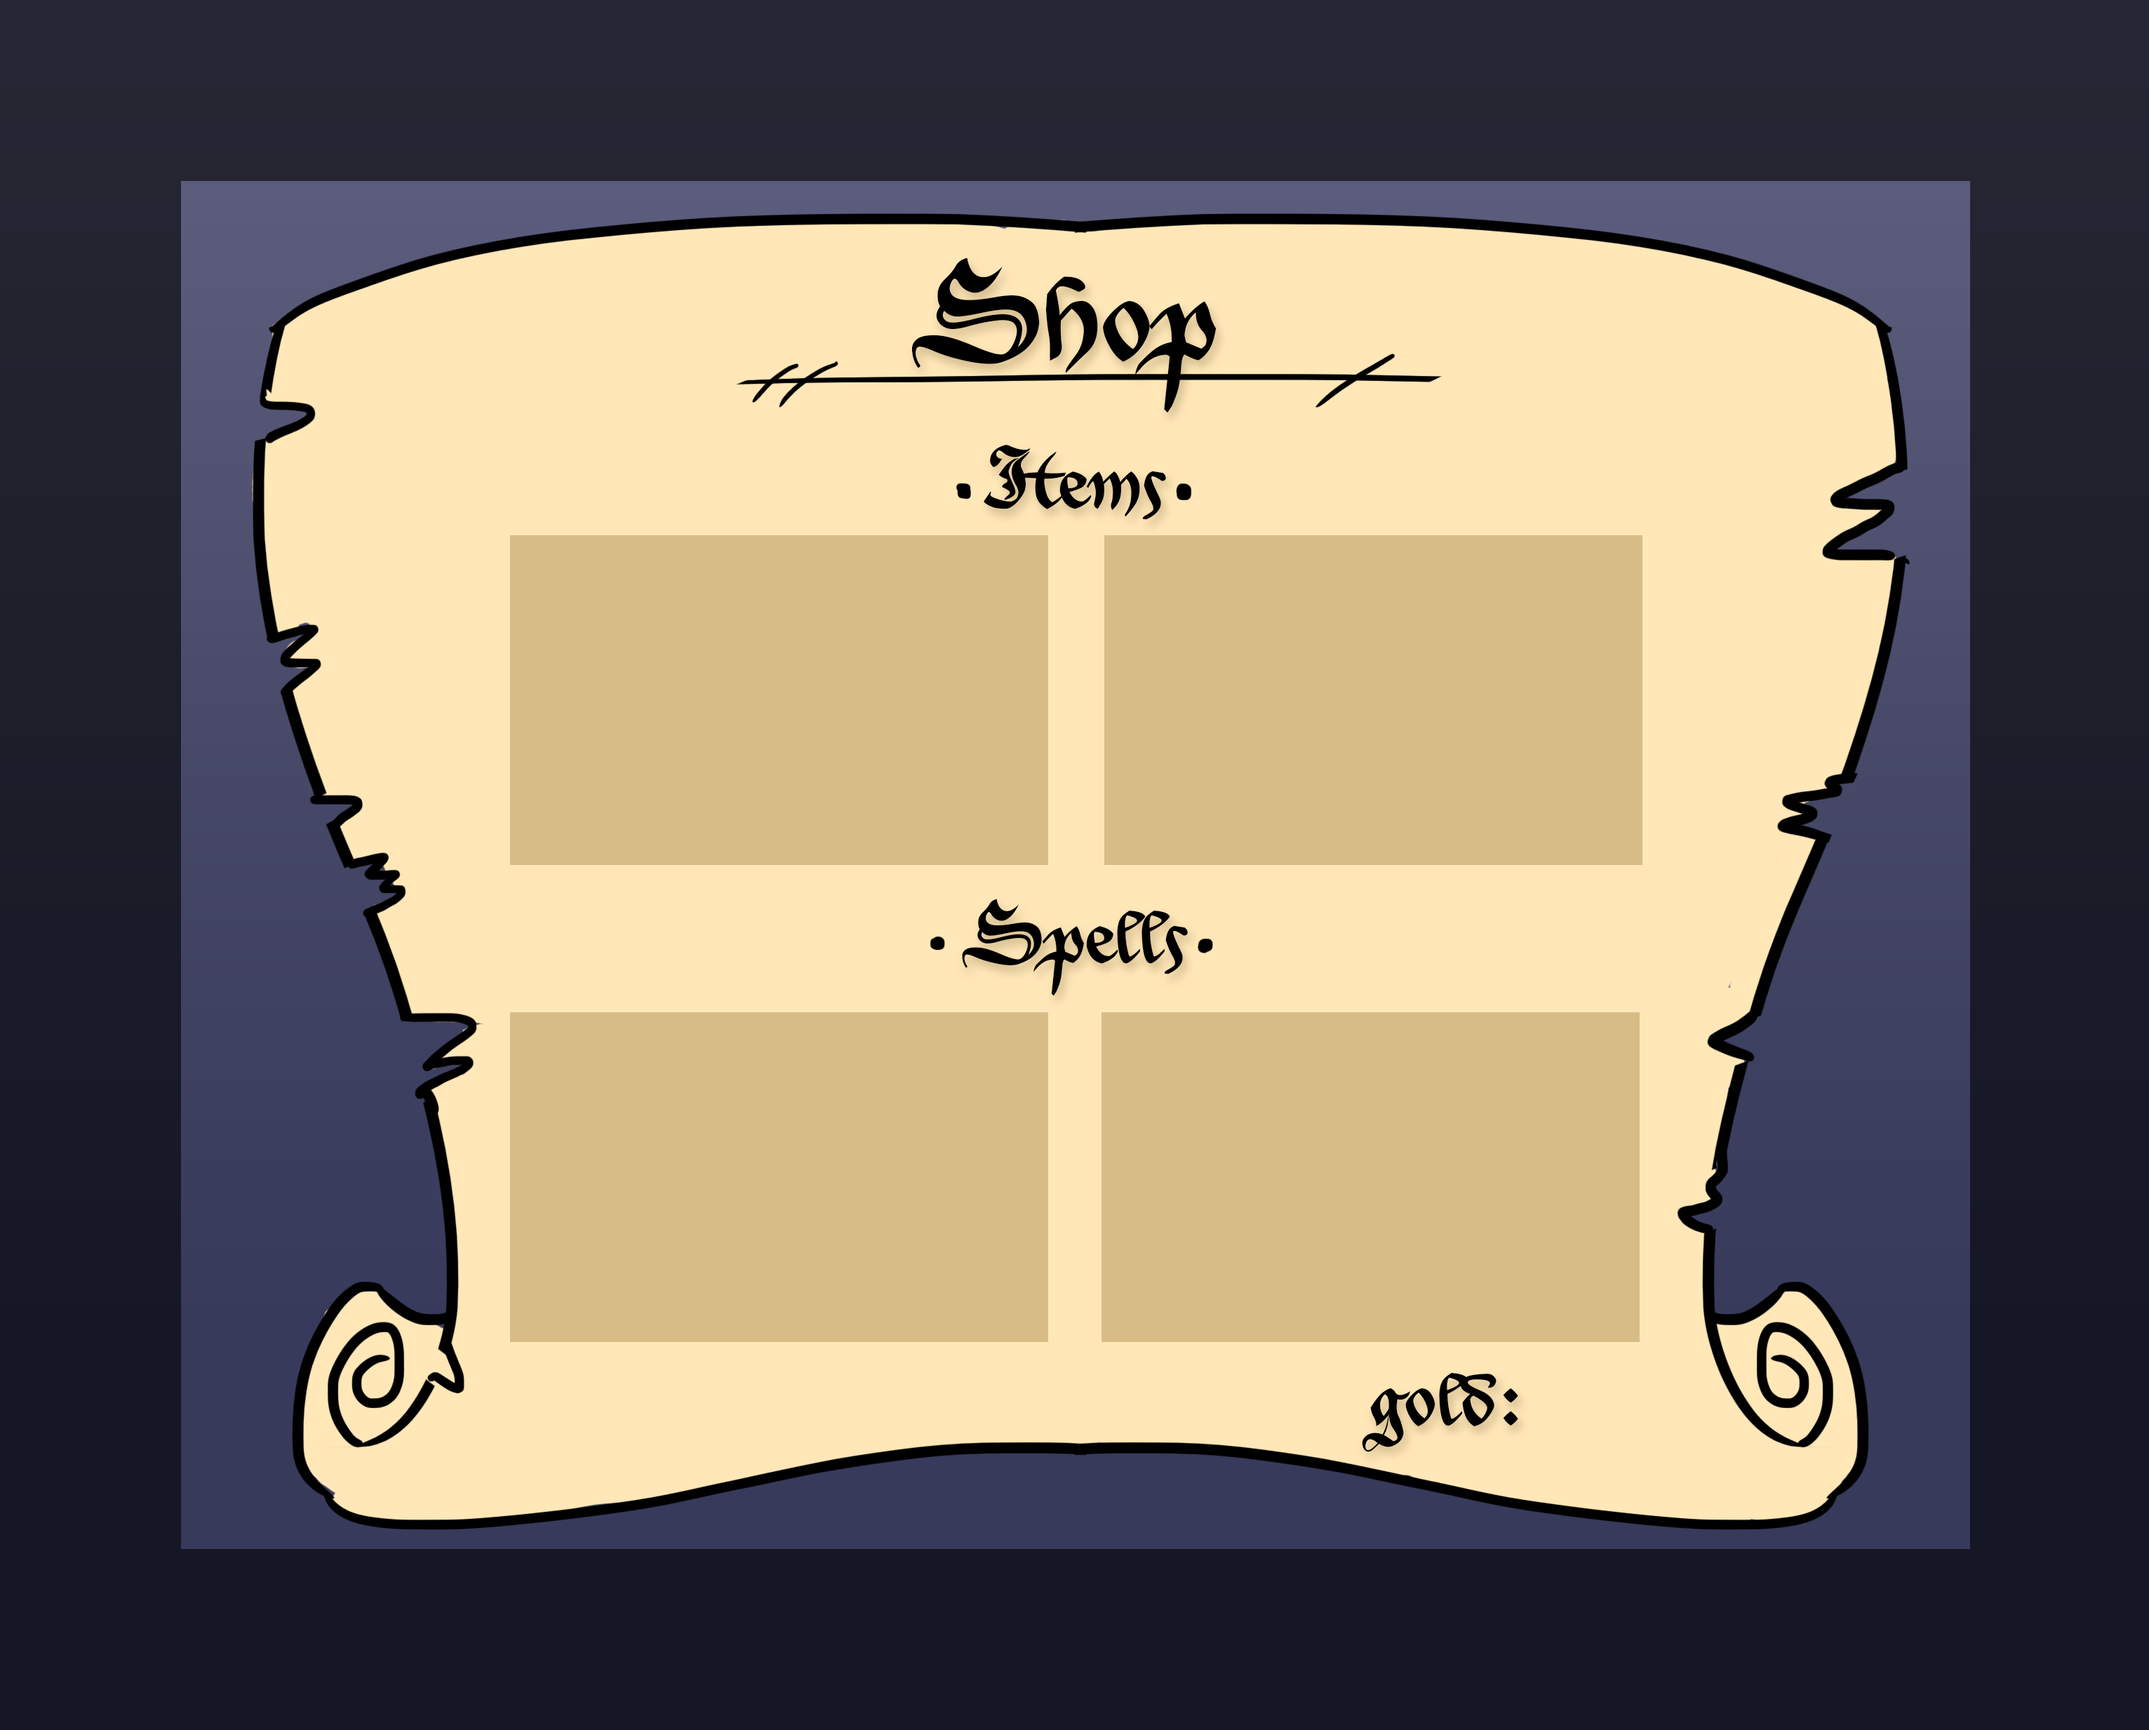
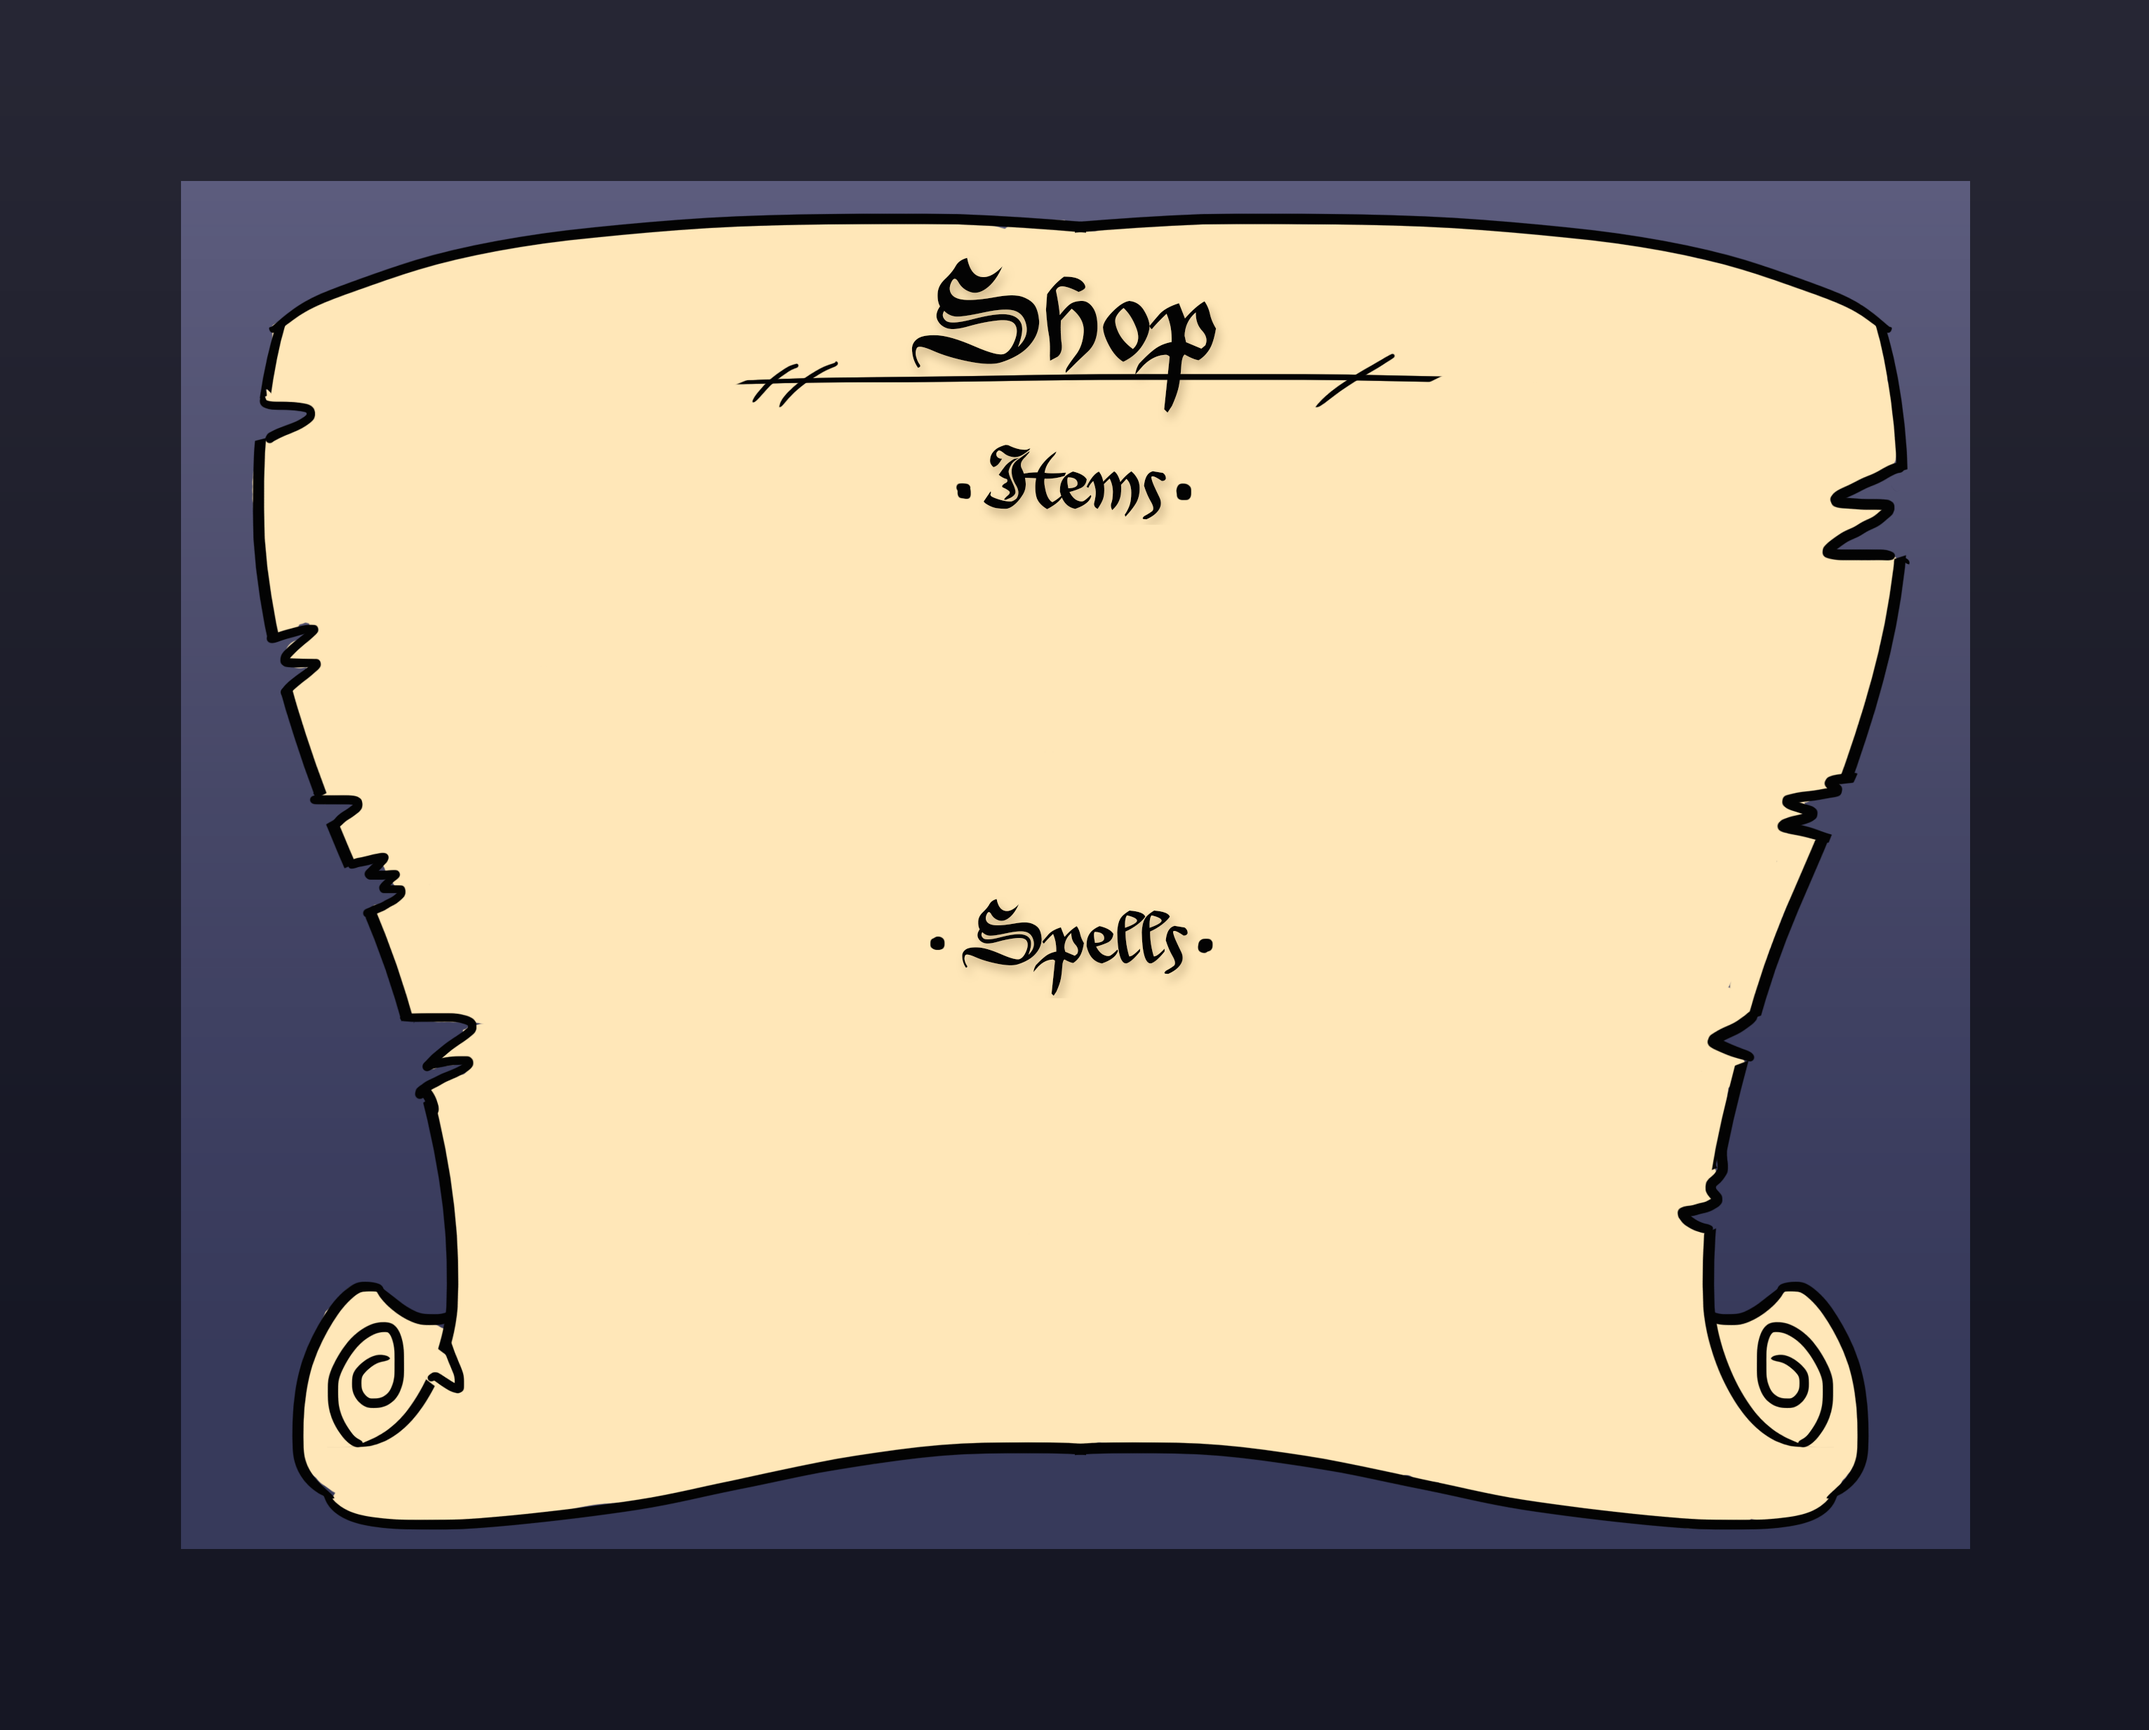
Merge branch 'Matt-Branch-4'
Changed look of shopScreen and handScreen
Fixed problem with dice texture not matching value
Changed getCost method to reflect purchase method in ItemCard
Updated canPurchase method in ItemCard to remove gold from player while
in the shop
Added table in ShopScreen to show how much gold player has

Changed region(s): [[0.2171, 0.562, 0.7754, 0.8431], [0.2171, 0.3122, 0.7754, 0.4996]]

diff --git a/core/src/Screens/ShopScreen.java b/core/src/Screens/ShopScreen.java
@@ -6,6 +6,7 @@ import java.util.ArrayList;
 import java.util.List;
 
 import Screens.HandScreen.Back;
+import regularClases.HumanCharacter;
 
 import com.badlogic.gdx.Gdx;
 import com.badlogic.gdx.Screen;
@@ -22,7 +23,9 @@ import com.badlogic.gdx.scenes.scene2d.Group;
 import com.badlogic.gdx.scenes.scene2d.InputEvent;
 import com.badlogic.gdx.scenes.scene2d.InputListener;
 import com.badlogic.gdx.scenes.scene2d.Stage;
+import com.badlogic.gdx.scenes.scene2d.ui.Image;
 import com.badlogic.gdx.scenes.scene2d.ui.ImageButton;
+import com.badlogic.gdx.scenes.scene2d.ui.Label;
 import com.badlogic.gdx.scenes.scene2d.ui.Skin;
 import com.badlogic.gdx.scenes.scene2d.ui.Table;
 import com.badlogic.gdx.scenes.scene2d.ui.ImageButton.ImageButtonStyle;
@@ -41,6 +44,7 @@ public class ShopScreen implements Screen, GestureListener, ActionListener{
 	private Back background;
 	
 	private Table buttonTable;
+	private Table goldTable;
 	
 	public static Skin skin = new Skin();
 	public static TextureAtlas atlas = new TextureAtlas("buttons/button.pack");
@@ -60,6 +64,7 @@ public class ShopScreen implements Screen, GestureListener, ActionListener{
 		background = new Back();
 		
 		buttonTable = new Table();
+		goldTable = new Table();
 		
 		skin.addRegions(atlas);
 		
@@ -85,18 +90,35 @@ public class ShopScreen implements Screen, GestureListener, ActionListener{
 	
 	
 	public class Back extends Actor{
-		public Texture texture = new Texture("shop_screen1.png");
+		public Texture texture = new Texture("shop_screen3.png");
 		public void draw(Batch batch, float parentAlpha){
 			batch.draw(texture, 0, 0,screenWidth,screenHeight);
 		}
 	}
 	
+	private void refresh(){
+		goldTable.remove();
+		
+		HumanCharacter active = SevenDungeons.getPlayer();
+		Integer gold = active.getGold();
+		Image goldImage = new Image(SevenDungeons.goldRegion);
+		float imageSize = 20;
+		
+		goldTable = new Table();
+		goldTable.add(goldImage).size(imageSize, imageSize).expand();
+		goldTable.add(new Label(gold.toString(), SevenDungeons.labelStyle)).expand();
+		goldTable.setSize(imageSize*2, imageSize);
+		goldTable.setPosition(screenWidth - 200, 100);
+		
+		stage.addActor(goldTable);
+	}
+	
 	public void exitShop(){
 		while (activeCards.size() > 0){
-			ItemCard current = activeCards.get(0);
-			current.purchase(SevenDungeons.getPlayer());
-			if (current.isSpell)
-				SevenDungeons.getPlayer().giveCard(current);
+			ItemCard curCard = activeCards.get(0);
+			HumanCharacter curPlayer = SevenDungeons.getPlayer();
+			if (curCard.isSpell)
+				curPlayer.giveCard(curCard);
 			activeCards.remove(0);
 			
 		}
@@ -113,6 +135,7 @@ public class ShopScreen implements Screen, GestureListener, ActionListener{
 						inventory.get(i).purchased = true;
 						cardGroup.setVisible(false);
 						activeCards.add(inventory.get(i));
+						refresh();
 					}
 					break;
 				}
@@ -148,6 +171,7 @@ public class ShopScreen implements Screen, GestureListener, ActionListener{
 	public void show() {
 		// TODO Auto-generated method stub
 		buttonTable = new Table();
+		buttonTable.setPosition(screenWidth/2, screenHeight/2 - 20);
 		
 		for(int i = 0; i < 6; i++) {
 			Card curCard = inventory.get(i);
@@ -156,19 +180,17 @@ public class ShopScreen implements Screen, GestureListener, ActionListener{
 			buttonTable.add().size(10);
 			if (i == 2){
 				buttonTable.row().height(10);
+				buttonTable.add().size(60);
+				buttonTable.row().height(10);
 			}
 		}
 				
 		stage.addActor(background);
 		stage.addActor(buttonTable);
-		
-		
-		buttonTable.setPosition(screenWidth/2, screenHeight/2);
-		
-		
 		stage.addActor(exitButton);
 		exitButton.setSize(50, 50);
 		exitButton.setPosition(100, screenHeight - exitButton.getHeight() - 100);
+		refresh();
 		
 		stage.draw();
 		

diff --git a/core/src/com/mygdx/game/ItemCard.java b/core/src/com/mygdx/game/ItemCard.java
@@ -43,7 +43,7 @@ public class ItemCard extends Card {
 		//Group group = new Group();
 		//group.addActor(this.button);
 		
-		infoTable = createInfoTable();
+		infoTable = createInfoTable(SevenDungeons.getPlayer());
 		if (isSpell)
 			infoTable.setBackground(Card.skin.getDrawable("spell_card"));
 		else
@@ -72,7 +72,7 @@ public class ItemCard extends Card {
 		return group;
 	}
 	
-	private Table createInfoTable() {
+	private Table createInfoTable(HumanCharacter active) {
 		Table table = new Table();
 		Image statImage;
 		Image goldImage = new Image(SevenDungeons.goldRegion);
@@ -99,7 +99,7 @@ public class ItemCard extends Card {
 		innerTable.add(statImage).align(Align.center).size(height/2, height/2).expand();
 		innerTable.add(new Label(String.valueOf(magnitude), SevenDungeons.labelStyle));
 		innerTable.add(goldImage).align(Align.center).size(height/2, height/2).expand();
-		innerTable.add(new Label(String.valueOf(price), SevenDungeons.labelStyle));
+		innerTable.add(new Label(String.valueOf(getCost(active)), SevenDungeons.labelStyle));
 		innerTable.setSize(width, height/2);
 		innerTable.debug();
 		
@@ -129,10 +129,11 @@ public class ItemCard extends Card {
 	public boolean canPurchase(HumanCharacter active) {
 		
 		// change this
-		boolean enoughGold = true;
+		boolean enoughGold = (active.getGold() >= getCost(active) && active.hand.size() < 3);
 		
 		if(enoughGold) {
 			//if player has enough gold and room inventory purchase and return true
+			active.giveGold(-1 * purchase(active));
 			return true;
 		}
 		//else dont purchase and return false
@@ -142,7 +143,7 @@ public class ItemCard extends Card {
 	
 	public int getCost(HumanCharacter active){
 		
-		return price * (active.Purchased(type) + 1);
+		return (int) (price * (active.Purchased(type) * 1.5 + 1));
 	}
 	
 	public int getMagnitude(HumanCharacter active){

diff --git a/core/src/Screens/HandScreen.java b/core/src/Screens/HandScreen.java
@@ -73,20 +73,10 @@ public class HandScreen implements Screen, GestureListener, ActionListener{
 	
 	public void setPlayer(HumanCharacter player) {
 		this.player = player;
-		//debugHand();
-	}
-	
-	private void debugHand(){
-		for (int i = 1; i <= 3; i++) {
-			ItemCard card = new ItemCard(i,i*5);
-			card.create();
-			player.giveCard(card);
-		}
-	}
-	
+	}	
 
 	public class Back extends Actor{
-		public Texture texture = new Texture("shop_screen2.png");
+		public Texture texture = new Texture("background_table.png");
 		public void draw(Batch batch, float parentAlpha){
 			batch.draw(texture, 0, 0,screenWidth,screenHeight);
 		}
@@ -98,7 +88,6 @@ public class HandScreen implements Screen, GestureListener, ActionListener{
 		
 		
 		stage.draw();
-		Table.drawDebug(stage);
 	}
 
 	@Override
@@ -120,6 +109,9 @@ public class HandScreen implements Screen, GestureListener, ActionListener{
 			Card curCard = player.hand.get(i);
 			curCard.getGroup().setVisible(true);
 			buttonTable.add(curCard.getGroup()).size(curCard.width, curCard.height);
+			buttonTable.row();
+			buttonTable.add().size(15);
+			buttonTable.row();
 		}
 		
 		stage.addActor(background);

diff --git a/core/src/Screens/BattleScreen.java b/core/src/Screens/BattleScreen.java
@@ -176,14 +176,14 @@ public class BattleScreen implements Screen {
 
 	public void refresh(){
 		
-		stage.getActors().removeValue(battleTable, true);
-		stage.getActors().removeValue(dice, true);
-		stage.getActors().removeValue(battleLabel, true);
+		battleTable.remove();
+		dice.remove();
+		battleLabel.remove();
 		
-		battleLabel = new Label(battleStatus, SevenDungeons.labelStyle);
+		battleLabel.setText(battleStatus);
+
 		battleLabel.setPosition(stage.getWidth()/2 - 100, stage.getHeight()/2 - 30);
 		
-		dice = new Dice(40,40);
 		dice.setPosition(stage.getWidth()/2, stage.getHeight()/2);
 		dice.setSize(40, 40);
 		
@@ -227,6 +227,7 @@ public class BattleScreen implements Screen {
 		// TODO Auto-generated method stub
 		
 		battleLabel = new Label(battleStatus, SevenDungeons.labelStyle);
+		dice = new Dice(40,40);
 		refresh();
 
 		

diff --git a/core/src/com/mygdx/game/Dice.java b/core/src/com/mygdx/game/Dice.java
@@ -30,8 +30,8 @@ public class Dice extends Actor implements ActionListener {
 		texture = new Texture("die.png");
 		regions = new TextureRegion[6];
 		regions[0] = new TextureRegion(texture,138,138,138,138);
-		regions[1] = new TextureRegion(texture,138,414,138,138);
-		regions[2] = new TextureRegion(texture,276,414,138,138);
+		regions[1] = new TextureRegion(texture,276,414,138,138);
+		regions[2] = new TextureRegion(texture,138,276,138,138);
 		regions[3] = new TextureRegion(texture,138,0,138,138);
 		regions[4] = new TextureRegion(texture,0,414,138,138);
 		regions[5] = new TextureRegion(texture,138,414,138,138);

diff --git a/core/src/com/mygdx/game/SevenDungeons.java b/core/src/com/mygdx/game/SevenDungeons.java
@@ -165,8 +165,15 @@ public  class SevenDungeons extends Game{
 	public static void openShop(){
 		ArrayList<ItemCard> cards = new ArrayList<ItemCard>(6);
 		for (int i = 0; i < 6; i++){
+			int price = 0;
+			if (i>2){
+				price = 30;
+			} else {
+				price = 10;
+			}
 			
-			ItemCard curCard = new ItemCard((i%3)+1,(i+1)*5);
+			ItemCard curCard = new ItemCard((i%3)+1, price);
+			
 			curCard.create();
 			if (i>2){
 				curCard.isSpell = true;

diff --git a/core/src/com/mygdx/game/Card.java b/core/src/com/mygdx/game/Card.java
@@ -25,8 +25,8 @@ public abstract class Card extends Actor{
 		
 	public ImageButtonStyle style;
 	public ImageButton button;
-	public int width = 150;
-	public int height = 75;
+	public int width = 130;
+	public int height = 60;
 	
 	private boolean clicked = false;
 	
